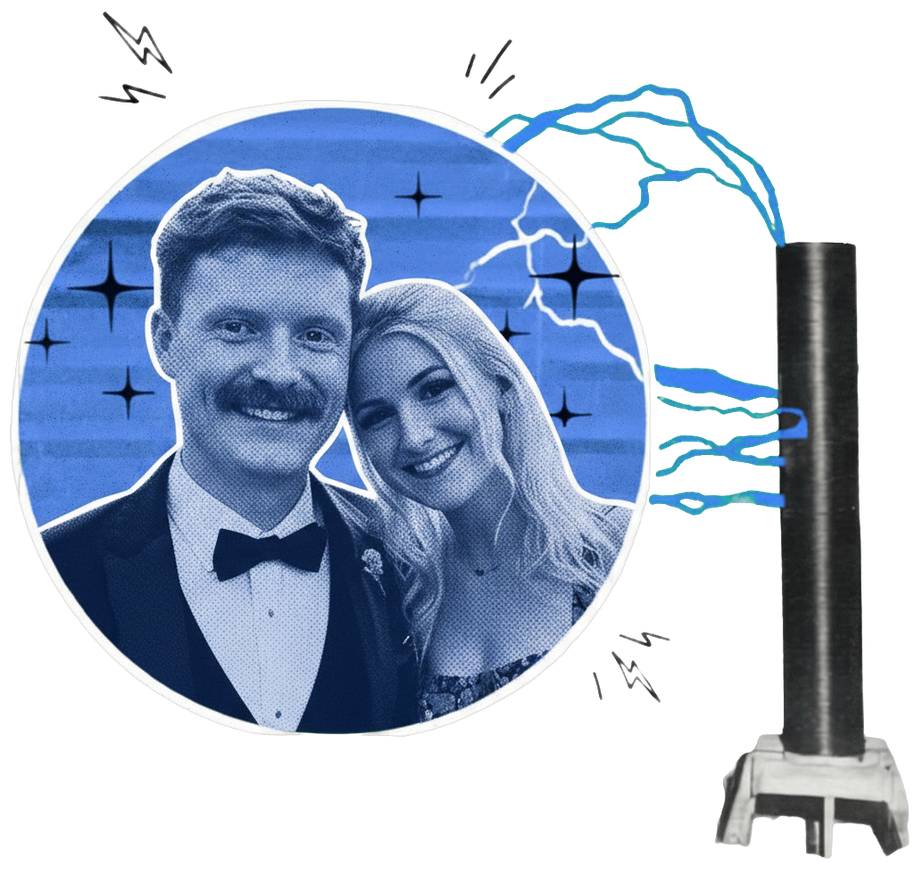
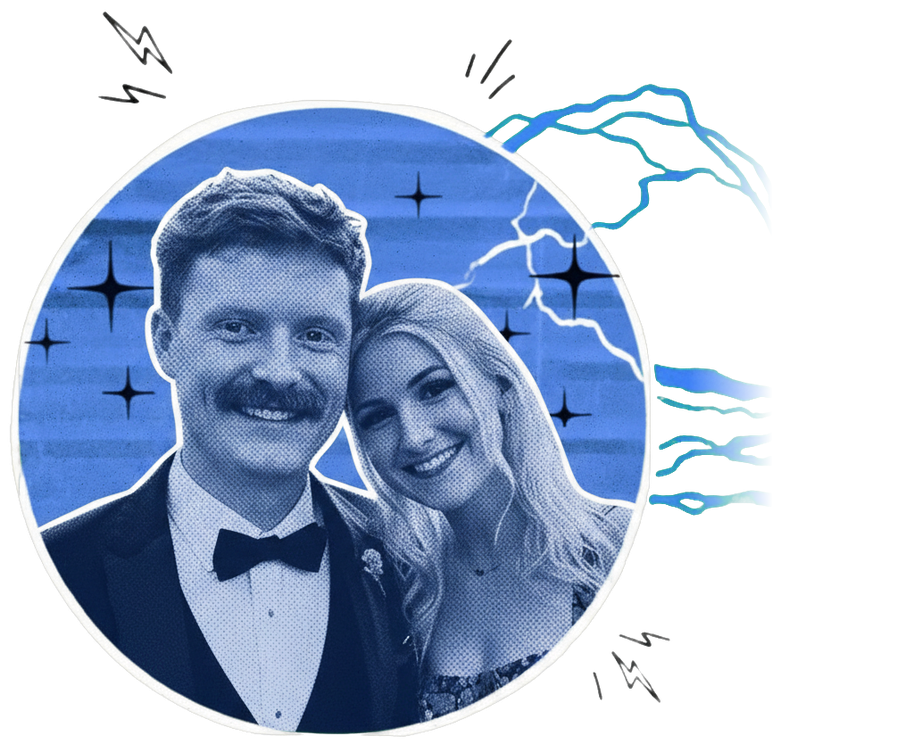
Redeploy: dialed-in portrait coil removed + typography token cleanup

diff --git a/styles.css b/styles.css
@@ -2135,26 +2135,6 @@ h1, h2, h3, h4, p { margin: 0; }
   margin: 18px auto 0;
   padding-bottom: 56px;
 }
-.fn__callouts-wrap { padding: 10px 0 56px; }
-.fn__callouts {
-  display: grid;
-  grid-template-columns: 1fr 1fr;
-  gap: 26px;
-  max-width: 880px;
-}
-.fn__co {
-  background: #1d1c1a;
-  border: 1px solid rgba(95,130,235,0.7);
-  border-radius: 16px;
-  padding: 22px 24px;
-  color: #fff;
-}
-/* mirrored stagger (mockup: left card high, right card lower) */
-.fn__co:first-child { transform: translateY(-8px); }
-.fn__co:last-child { transform: translateY(8px); }
-.fn__co-quote { font-size: 17.5px; line-height: 1.5; }
-.fn__co-action { margin-top: 12px; font-weight: 700; font-size: 14px; color: #cfe0ff; }
-.fn__arrow { color: var(--volt-blue-bright); font-weight: 700; margin-right: 4px; }
 /* narrow desktop: half the container can't hold the ink half-width plus a
    440px label column, so compact the stack — a shorter bracket span shrinks
    the pinned funnel with it, and both sides regain clearance */
@@ -2223,7 +2203,6 @@ h1, h2, h3, h4, p { margin: 0; }
     .fn__stages li { padding-left: 26px; }
     .fn__stages li::before { width: 12px; }
   }
-  .fn__callouts { grid-template-columns: 1fr; max-width: 460px; }
   /* title: the desktop-tuned <br> (after "TURNS") forces a ragged 4-line stack with
      "TURNS" and "CUSTOMERS" orphaned on mobile. Drop it on phone so the single run
      flows and balance evens it. (A space was added before the <br> in markup so the
@@ -2250,12 +2229,9 @@ h1, h2, h3, h4, p { margin: 0; }
   margin: 0 auto;
   padding-bottom: 0;
 }
+/* joins the global .eyebrow (Oswald) system — dark-band color + spacing only */
 .faq__claim-eyebrow {
-  font-family: var(--f-head);
-  text-transform: uppercase;
-  font-size: clamp(12px, 1.25vw, 15px);
-  letter-spacing: 0.22em;
-  color: #6a98f0; /* was --volt-blue #4884ea = 4.36:1 on dark, fails AA at the 12px floor; #6a98f0 = 5.57:1 */
+  color: #6a98f0; /* --volt-blue #4884ea = 4.36:1 on dark fails AA; #6a98f0 = 5.57:1 */
   margin-bottom: 14px;
 }
 .faq__claim-lead {
@@ -2283,7 +2259,7 @@ h1, h2, h3, h4, p { margin: 0; }
   display: grid;
   gap: 14px;
 }
-/* card matches the funnel callouts (.fn__co): warm near-black + blue hairline */
+/* warm near-black card + blue hairline (matches the dark-band component look) */
 .faq__item {
   background: #1d1c1a;
   border: 1px solid rgba(95,130,235,0.55);
@@ -3034,7 +3010,6 @@ h1, h2, h3, h4, p { margin: 0; }
   color: var(--volt-blue-deep);
   margin: 2px 0 8px;
 }
-.offer__then { font-size: 16.5px; font-weight: 600; color: var(--ink); }
 /* one tight direct-response paragraph — bold hooks carry the skim, muted
    body recedes, italic serif closes it out. center-aligned to match the
    rest of the card. */
@@ -3110,63 +3085,6 @@ h1, h2, h3, h4, p { margin: 0; }
   margin: 0;
 }
 
-/* ===== GUARANTEES ===== */
-.guarantees { padding: 10px 0 70px; }
-.g__title {
-  text-align: center;
-  font-family: var(--f-head);
-  text-transform: uppercase;
-  font-size: clamp(28px, 3.8vw, 50px);
-  color: var(--ink);
-  margin-bottom: 34px;
-}
-.g__grid {
-  display: grid;
-  grid-template-columns: repeat(2, 1fr);
-  gap: 22px;
-  max-width: 980px;
-  margin: 0 auto 30px;
-}
-.g__card {
-  background: #fdfbf5;
-  border: 2px solid var(--volt-blue-bright);
-  border-radius: 16px;
-  box-shadow: 0 6px 16px rgba(40,35,20,0.08);
-  padding: 22px 26px 24px;
-  position: relative;
-}
-.g__num {
-  font-family: var(--f-mono);
-  font-size: 13px;
-  letter-spacing: 0.04em;
-  color: #6a6354;
-  display: block;
-  margin-bottom: 8px;
-}
-.g__name {
-  font-family: var(--f-head);
-  text-transform: uppercase;
-  font-size: 17px;
-  line-height: 1.2;
-  color: var(--ink);
-  margin-bottom: 10px;
-}
-.g__body { font-size: 14.5px; line-height: 1.5; color: #36352f; }
-.g__billing {
-  max-width: 980px;
-  margin: 0 auto;
-  background: #1d1c1a;
-  color: #f3ecdf;
-  border-radius: 18px;
-  padding: 22px 30px;
-  text-align: center;
-}
-.g__billing p { font-size: 16px; line-height: 1.6; }
-.g__billing b { color: #fff; }
-.g__billing em { color: var(--volt-blue-bright); font-style: italic; }
-@media (max-width: 760px) {
-  .g__grid { grid-template-columns: 1fr; }
-}
 /* long menu rows start colliding with the dotted leaders below ~860 */
 @media (max-width: 860px) {
   .offer__menu li { flex-wrap: wrap; }
@@ -3253,10 +3171,10 @@ h1, h2, h3, h4, p { margin: 0; }
   }
   /* the absolutely-positioned portrait outgrows the capped copy column past
      ~1520 and hangs into the real-results title. Grow the wrap with the art:
-     art top + art height (width × 885/914) − the 120px section padding the
+     art top + art height (width × 750/914) − the 120px section padding the
      art bottom is allowed to hang into (its exact position at 1440), keeping
      the title 30px clear of the portrait at every width */
-  .dialed__wrap { min-height: calc(clamp(36px, 5.5vw, 106px) + clamp(580px, calc(44vw - 54px), 791px) * 0.9683 - 120px); }
+  .dialed__wrap { min-height: calc(clamp(36px, 5.5vw, 106px) + clamp(580px, calc(44vw - 54px), 791px) * 0.8206 - 120px); }
   /* the head/bubble are %-of-container — freeze them at their 1920 widths
      (60% / 57% of the 1568px content box) so they stop growing with the
      viewport once the type freezes */
@@ -3322,7 +3240,6 @@ h1, h2, h3, h4, p { margin: 0; }
   /* 6vw - 10.4px = the current 76px cap at 1440; 105px = the value @1920 */
   .offer__big { font-size: clamp(100px, calc(8vw - 13px), 140px); }
   /* 1.15vw = the current 16.5px at 1440 */
-  .offer__then { font-size: clamp(16.5px, 1.15vw, 22px); }
   .offer__copy {
     /* 37.5vw = the current 540px cap at 1440; 720px = the value @1920 */
     max-width: clamp(540px, 37.5vw, 720px);

diff --git a/index.html b/index.html
@@ -176,7 +176,7 @@
         <svg class="dialed__pill-swash" viewBox="0 0 180 14" aria-hidden="true"><path d="M6 5 C56 2 130 3 174 5" fill="none" stroke="#2f6bff" stroke-width="4" stroke-linecap="round"/><path d="M36 11 C84 8 124 9 150 10" fill="none" stroke="#2f6bff" stroke-width="3.5" stroke-linecap="round"/></svg>
       </div>
       <div class="dialed__art">
-        <img src="assets/sitevolt-services-portrait.webp" alt="" width="914" height="885" loading="lazy" decoding="async" />
+        <img src="assets/sitevolt-services-portrait.webp" alt="" width="914" height="750" loading="lazy" decoding="async" />
       </div>
     </div>
   </section>
@@ -536,7 +536,7 @@
   <section id="faq" class="section faq dark-bg">
     <div class="container">
       <h2 class="faq__claim">
-        <span class="faq__claim-eyebrow">All that, for a dollar</span>
+        <span class="eyebrow faq__claim-eyebrow">All that, for a dollar</span>
         <span class="faq__claim-lead">Yeah, we know how it sounds.</span>
         <span class="faq__claim-sub">Here are the straight answers. No fine print.</span>
       </h2>